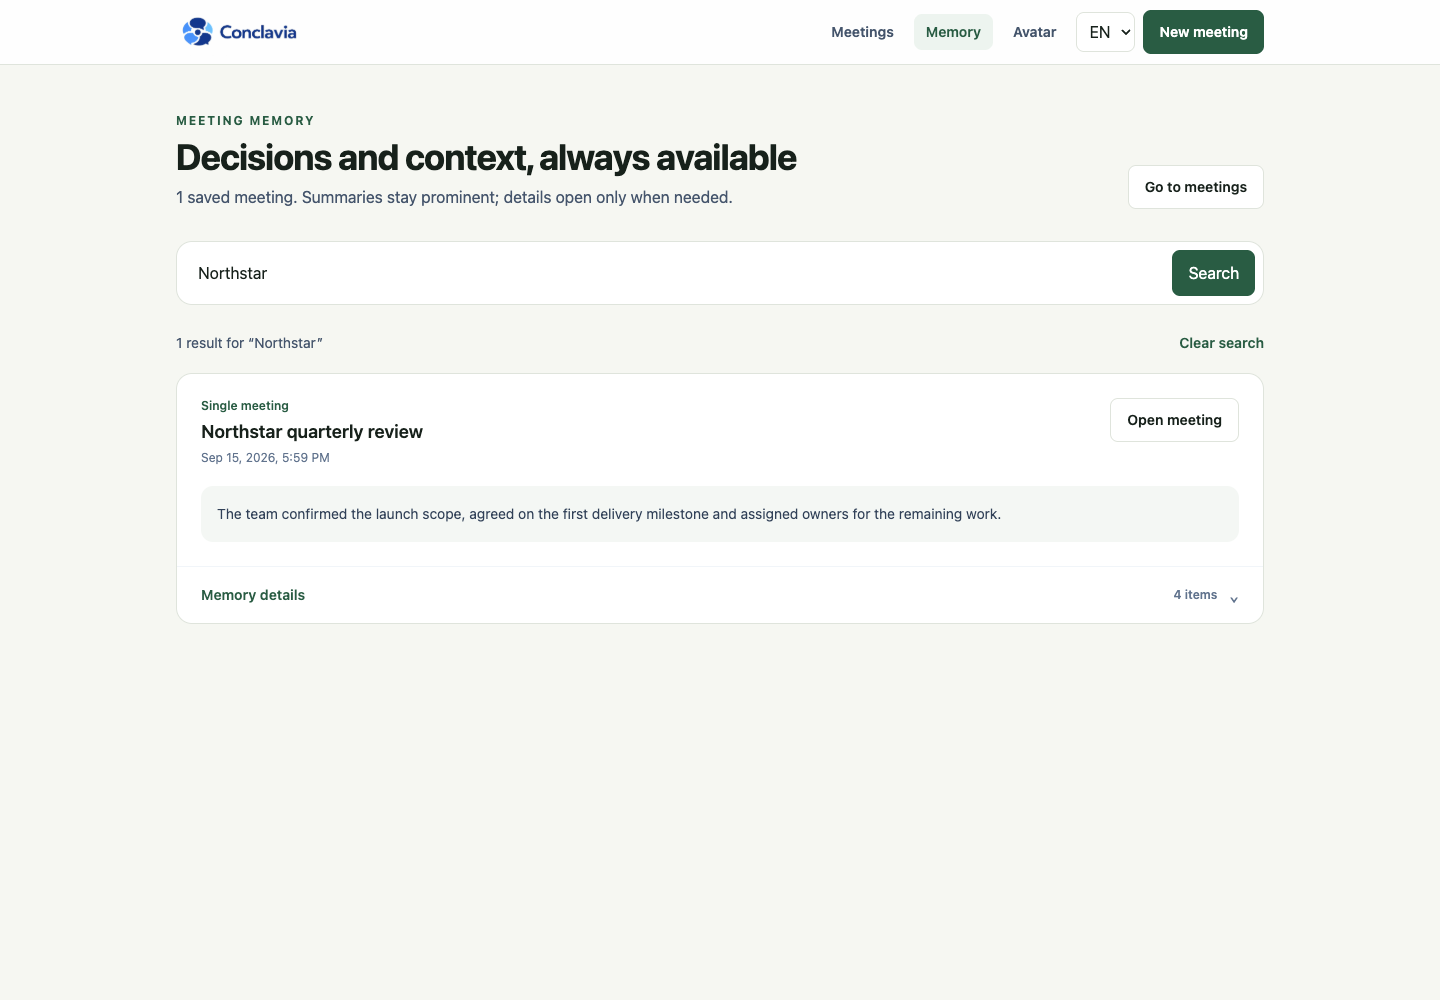
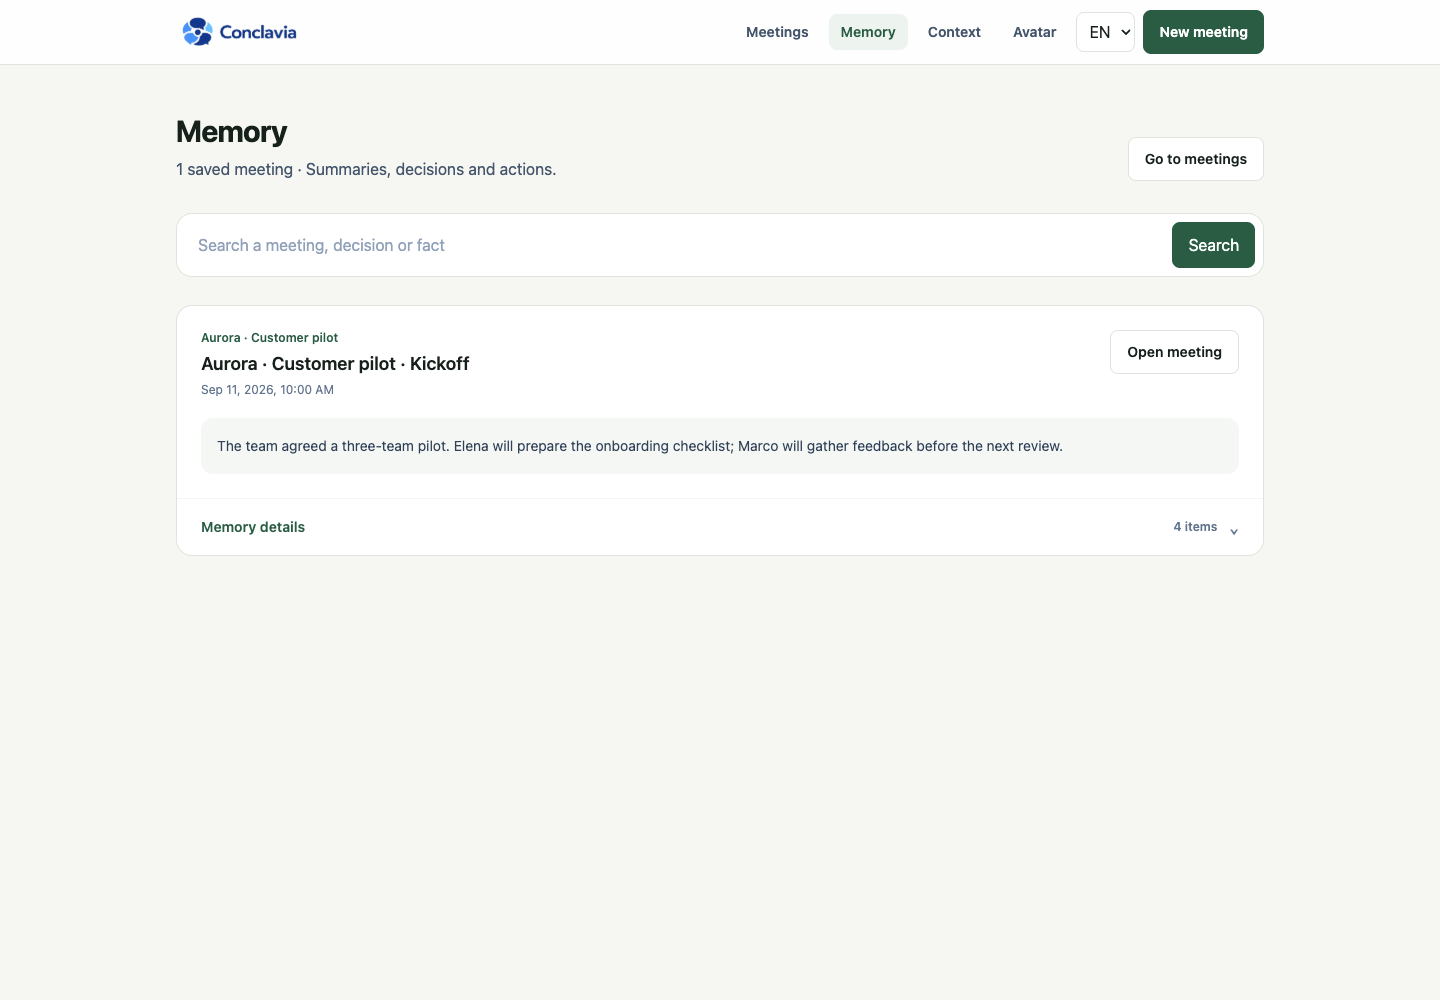
docs: refresh README figures with repeatable GUI capture

diff --git a/tests/docs/readme-screenshots.spec.ts b/tests/docs/readme-screenshots.spec.ts
@@ -1,0 +1,167 @@
+import { randomUUID } from "node:crypto";
+import { resolve } from "node:path";
+import { loadEnvConfig } from "@next/env";
+import { expect, test, type Locator } from "@playwright/test";
+import { connectToDatabase } from "../../src/lib/mongodb";
+import { meetingDocumentData } from "../../src/lib/meeting-factory";
+import { MeetingModel } from "../../src/models/Meeting";
+import { MeetingSeriesModel } from "../../src/models/MeetingSeries";
+import type { MeetingResponse, MeetingSummary } from "../../src/types/meeting";
+
+test("capture current README screens with isolated demonstration data", async ({ page, request }) => {
+  expect(process.env.MONGODB_DB_NAME).toMatch(/^conclavia_e2e_docs_/);
+  expect(process.env.MEETING_BOT_PROVIDER).toBe("preview");
+  expect(process.env.MEETING_AI_ENABLED).toBe("false");
+  expect(process.env.INWORLD_API_KEY).toBe("");
+  loadEnvConfig(process.cwd());
+  await connectToDatabase();
+  const owned: string[] = [];
+  const seriesIds: string[] = [];
+  const errors: string[] = [];
+  page.on("pageerror", error => errors.push(error.message));
+  // Never follow an external meeting link or request paid speech in this capture.
+  await page.route("**/*", route => {
+    const url = new URL(route.request().url());
+    return url.hostname !== "127.0.0.1" || url.pathname.endsWith("/speech") ? route.abort() : route.continue();
+  });
+  await page.context().addCookies([{ name: "conclavia_locale", value: "en", url: "http://127.0.0.1:3101" }]);
+  await page.setViewportSize({ width: 1440, height: 1000 });
+  const at = (days: number) => {
+    const date = new Date(); date.setDate(date.getDate() + days); date.setHours(10, 0, 0, 0); return date.toISOString();
+  };
+  const input = (title: string, days = 1) => ({
+    title, objective: "Agree the Aurora pilot scope, owners and next steps.",
+    meetingUrl: `https://teams.microsoft.com/l/meetup-join/readme-demo-${randomUUID()}`,
+    scheduledStart: at(days), durationMinutes: 45, timezone: "Europe/Rome", language: "en" as const,
+    autoJoin: false, correctionPolicy: "important_only" as const,
+    agenda: [{ title: "Pilot scope and success criteria", mandatory: true }, { title: "Owners and next steps", mandatory: true }],
+  });
+  const { profile } = await (await request.get("/api/avatar")).json();
+  const originalContext = await (await request.get("/api/context")).json();
+  const profileInput = {
+    displayName: profile.displayName, role: profile.role, appearance: profile.appearance,
+    responseStyle: profile.personality.responseStyle, attitude: profile.personality.attitude,
+    voiceStyle: profile.voice.style, speakingRate: profile.voice.speakingRate,
+    inworldVoiceIdIt: profile.voice.inworldVoiceIdIt, inworldVoiceIdEn: profile.voice.inworldVoiceIdEn,
+  };
+  async function capture(name: string, target?: Locator) {
+    await page.evaluate(() => document.fonts.ready);
+    if (!target) {
+      // Form fills can scroll the page; reset before capturing a sticky header.
+      await page.evaluate(() => {
+        if (document.activeElement instanceof HTMLElement) document.activeElement.blur();
+        window.scrollTo({ top: 0, behavior: "instant" });
+      });
+      await expect.poll(() => page.evaluate(() => window.scrollY)).toBe(0);
+    }
+    expect(await page.evaluate(() => document.documentElement.scrollWidth <= innerWidth)).toBe(true);
+    const options = { path: resolve("docs/images", name), animations: "disabled" as const, caret: "hide" as const,
+      style: "nextjs-portal { display: none !important; }", scale: "css" as const };
+    if (target) await target.screenshot(options);
+    else await page.screenshot({ ...options, fullPage: true });
+  }
+  try {
+    expect((await request.patch("/api/avatar", { data: { ...profileInput, displayName: "Riccardo", role: "Digital colleague",
+      appearance: "business_clay", inworldVoiceIdIt: "Gianni", inworldVoiceIdEn: "Dennis", speakingRate: 1 } })).ok()).toBe(true);
+    const general = "Aurora is a fictional customer onboarding product.\nMVP means the first version customers can use.\nKeep answers brief; distinguish proposals from confirmed decisions.\nDo not infer an approved budget from planning notes.";
+    expect((await request.patch("/api/context", { data: { context: general, version: originalContext.version } })).ok()).toBe(true);
+    const seriesResponse = await request.post("/api/meeting-series", { data: {
+      ...input("Aurora · Customer pilot"), context: "Pilot for the Italian market. Success means onboarding three demo teams.\nTrack scope, owners and feedback across appointments.",
+      appointments: [
+        { ...input("Kickoff", -2), label: "Kickoff" },
+        { ...input("Pilot review", 1), label: "Pilot review" },
+        { ...input("Next steps", 4), label: "Next steps" },
+      ],
+    } });
+    expect(seriesResponse.status()).toBe(201);
+    const seriesData = await seriesResponse.json();
+    seriesIds.push(seriesData.series.id);
+    const meetings = seriesData.meetings as MeetingResponse[];
+    owned.push(...meetings.map(meeting => meeting.id));
+    const summary: MeetingSummary = {
+      overview: "The team agreed a three-team pilot. Elena will prepare the onboarding checklist; Marco will gather feedback before the next review.",
+      rememberedFacts: ["The pilot covers three demonstration teams."],
+      decisions: ["Start with onboarding and feedback collection; defer advanced reporting."],
+      actionItems: [{ owner: "Elena", description: "Prepare the onboarding checklist", dueAt: new Date(at(1)), completed: false }],
+      openQuestions: ["Which feedback questions should be prioritised?"], participantNotes: [],
+    };
+    await MeetingModel.updateOne({ _id: meetings[0].id }, { $set: {
+      status: "completed", summary, "bot.status": "left", "bot.leftAt": new Date(at(-2)),
+    } }, { runValidators: true });
+    const next = meetings[1];
+    await MeetingModel.updateOne({ _id: next.id }, { $set: {
+      context: "Focus on onboarding feedback in this appointment.\nConfirm the checklist owner before discussing reporting.",
+    } });
+    const standalone = await MeetingModel.create(meetingDocumentData(input("Design review · First-time experience", 2), { assistantName: "Riccardo" }));
+    owned.push(String(standalone._id));
+
+    await page.goto("/meetings");
+    await expect(page.getByRole("heading", { name: "Meetings", exact: true })).toBeVisible();
+    await capture("meetings.png");
+    await page.goto("/meetings/new");
+    await page.getByLabel("Microsoft Teams link").fill("https://teams.microsoft.com/l/meetup-join/readme-demo");
+    await page.getByLabel("Meeting title", { exact: true }).fill("Aurora · Pilot review");
+    await page.getByLabel("Meeting objective").fill("Review onboarding feedback and agree the next iteration.");
+    await page.getByLabel("Language", { exact: true }).selectOption("en");
+    await page.getByLabel("Date and time").fill(`${at(1).slice(0, 10)}T10:00`);
+    await capture("new-meeting.png");
+
+    await page.goto(`/meetings/series/${seriesData.series.id}`);
+    await expect(page.getByRole("heading", { name: "Aurora · Customer pilot", exact: true })).toBeVisible();
+    await capture("meeting-series.png");
+    await page.goto("/memory");
+    await expect(page.getByText(summary.overview, { exact: true })).toBeVisible();
+    await capture("memory.png");
+
+    await page.goto("/avatar");
+    await expect(page.getByLabel("Name and call phrase")).toHaveValue("Riccardo");
+    await expect(page.locator("svg[data-appearance]")).toHaveAttribute("data-appearance", "business_clay");
+    await capture("avatar-settings-en.png");
+    await page.goto("/avatar/test");
+    await expect(page.getByTestId("voice-provider")).toContainText("Inworld");
+    await expect(page.getByLabel("Voice to preview")).toHaveValue("Dennis");
+    await capture("avatar-studio-en.png");
+    expect((await request.patch("/api/avatar", { data: { ...profileInput, displayName: "Nora", role: "Digital colleague",
+      appearance: "business_clay_female", inworldVoiceIdIt: "Orietta", inworldVoiceIdEn: "Eleanor", speakingRate: 1 } })).ok()).toBe(true);
+    await page.reload();
+    await page.getByLabel("Language", { exact: true }).selectOption("it");
+    await expect(page.getByLabel("Voice to preview")).toHaveValue("Orietta");
+    await page.getByRole("button", { name: "Raise / lower hand" }).click();
+    await expect(page.locator("svg[data-appearance]")).toHaveAttribute("data-gesture", "hand_raise");
+    await capture("avatar-studio-female-en.png");
+    // Keep the named-turn example consistent with the meetings created as Riccardo.
+    expect((await request.patch("/api/avatar", { data: { ...profileInput, displayName: "Riccardo", role: "Digital colleague",
+      appearance: "business_clay", inworldVoiceIdIt: "Gianni", inworldVoiceIdEn: "Dennis", speakingRate: 1 } })).ok()).toBe(true);
+
+    await page.goto("/context");
+    await expect(page.getByLabel("General context", { exact: true })).toHaveValue(general);
+    await capture("assistant-context-en.png");
+    await page.goto(`/meetings/${next.id}`);
+    const meetingContext = page.getByTestId("meeting-context");
+    await meetingContext.locator("summary").first().click();
+    await meetingContext.getByText("Already included context", { exact: true }).click();
+    await expect(meetingContext.getByLabel("Notes for this meeting")).toHaveValue(/Focus on onboarding/);
+    await capture("meeting-context-en.png", meetingContext);
+
+    // This screenshot documents an injected caption example, not a recorded Teams conversation.
+    await MeetingModel.updateOne({ _id: next.id }, { $set: {
+      transcript: [
+        { sequence: 1, speakerName: "Elena · Demo", text: "Secondo me tre per tre fa 12.", source: "participant", createdAt: new Date(Date.now() - 8000) },
+        { sequence: 2, speakerName: "Elena · Demo", text: "Ehi Riccardo, dimmi.", source: "participant", createdAt: new Date(Date.now() - 3000) },
+      ],
+      commandHistory: [{ id: randomUUID(), kind: "correct", prompt: "Secondo me tre per tre fa 12.", response: "Sì, 3 per 3 fa 9, non 12.", createdAt: new Date(Date.now() - 2000) }],
+    } });
+    await page.reload();
+    await page.getByRole("switch", { name: "Debug mode" }).click();
+    await expect(page.getByRole("log").getByText("Sì, 3 per 3 fa 9, non 12.", { exact: true })).toBeVisible();
+    await capture("meeting-debug-en.png", page.locator("section").filter({ has: page.getByRole("switch", { name: "Debug mode" }) }));
+    expect(errors).toEqual([]);
+  } finally {
+    await page.goto("about:blank");
+    for (const id of owned) await MeetingModel.deleteOne({ _id: id });
+    for (const id of seriesIds) await MeetingSeriesModel.deleteOne({ _id: id });
+    expect((await request.patch("/api/avatar", { data: profileInput })).ok()).toBe(true);
+    const context = await (await request.get("/api/context")).json();
+    expect((await request.patch("/api/context", { data: { context: originalContext.context, version: context.version } })).ok()).toBe(true);
+  }
+});

diff --git a/playwright.docs.config.ts b/playwright.docs.config.ts
@@ -1,0 +1,14 @@
+import { randomUUID } from "node:crypto";
+import { defineConfig } from "@playwright/test";
+import regression from "./playwright.config";
+
+// Preserve this exact isolated database in the server and worker subprocesses.
+if (!process.env.MONGODB_DB_NAME?.startsWith("conclavia_e2e_docs_")) {
+  process.env.MONGODB_DB_NAME = `conclavia_e2e_docs_${randomUUID().replaceAll("-", "")}`;
+}
+
+export default defineConfig(regression, {
+  testDir: "./tests/docs",
+  timeout: 120_000,
+  use: { ...regression.use, viewport: { width: 1440, height: 1000 }, reducedMotion: "reduce", timezoneId: "Europe/Rome" },
+});

diff --git a/README.md b/README.md
@@ -49,6 +49,8 @@ Start with [voice setup](#streaming-voice-setup), the [Cloudflare local test gui
 
 ## Product tour
 
+The desktop figures below were refreshed on **13 September 2026** from the current application, using fictional Aurora meetings in an isolated database. They show the real GUI, not design mockups or recordings of a Teams call. Paid integrations are disabled during capture; the Inworld configuration warning in the voice studio is intentional. See [refreshing the screenshots](#refreshing-the-readme-screenshots).
+
 ### Meetings at a glance
 
 The dashboard separates **Overview**, **Upcoming**, **History**, and **Series**. The overview shows a short list of current and upcoming meetings plus recent summaries. A collapsed action bar contains admissions and operational issues; old missed appointments and optional summary reviews do not accumulate there.
@@ -64,6 +66,8 @@ See the [dashboard verification report](docs/dashboard-verification-2026-09-09.m
 ### Avatar and voice test
 
 The avatar can be tested independently from a meeting, including Italian and English voice, speaking rate, facial mood, audio-driven lip sync, and hand raise. Save voice and rate only after comparing them; advanced model comparisons affect the preview only. This local preview does not require Cloudflare or an Attendee participant.
+
+Start in [Identity & behaviour](docs/images/avatar-settings-en.png) to choose the name and appearance, then move to the studio below. The provider is explicitly labelled **Inworld**, and optional speed/model controls stay under **Advanced settings**.
 
 ![Conclavia voice and movement studio](docs/images/avatar-studio-en.png)
 
@@ -127,17 +131,27 @@ Storage/context limits are intentional but relevant to long meetings: the meetin
 
 For testing, enable **Debug mode** on the meeting detail page, below the assistant commands. It is off by default and shows received transcript contributions and assistant response text with names and timestamps, updating roughly every second while the tab is visible. The latest acknowledged response also shows whether the avatar browser started, completed, or failed playback. A text response alone is not proof of audio, and browser playback does not establish what another Teams participant heard. This is a read-only view: it does not enable recording or change memory. Turning it off stops its requests. Only the latest 100 events are displayed; unchanged responses use conditional requests, and updates do not reload the page or pull focus away while reading older messages. Debug is not displayed in the avatar’s Teams video and does not ingest Teams text chat.
 
+The figure illustrates the named contextual follow-up with **seeded demonstration captions and a seeded response**. It documents the display, not microphone recognition, response generation or successful audio playback; those require the separate verification runs.
+
+![Debug mode showing a participant statement, a named invitation and Riccardo's contextual correction](docs/images/meeting-debug-en.png)
+
 The assistant personality has two deliberately simple controls: response length and attitude. Those choices are included in the meeting prompt.
 
 ## Assistant context
 
 Open **Context** in the navigation to enter company background, terminology and working preferences. In a meeting, open **Context for the assistant** for appointment-specific notes and a read-only preview of inherited context. The series detail has its own **Series context** section. During creation, notes are optional and collapsed; the objective remains the result to achieve, not a second background field.
 
+![General assistant context with explicit save and an explanation of the three scopes](docs/images/assistant-context-en.png)
+
 | Scope | Where to edit | Applies to |
 | --- | --- | --- |
 | General | `/context` | Every meeting in this installation |
 | Series | Series detail → Series context | All appointments linked by `seriesId`, including existing and future ones |
 | Meeting | Meeting detail → Context for the assistant | Only that appointment |
+
+The meeting panel shows inherited general and series notes alongside the editable notes for this appointment, so shared background does not have to be copied into each meeting.
+
+![Meeting-specific context with the inherited general and series context expanded](docs/images/meeting-context-en.png)
 
 The effective background is **general + series + meeting**. Specific details take precedence over broader background, while non-conflicting information remains available. This is prompt guidance, not a guarantee of model reasoning. The common prompt rules keep owner-supplied background separate from transcript evidence: a planned budget in context must not be summarized as a budget approved in the meeting. Stored outcomes and original transcripts are not rewritten. Transcripts remain evidence, never replacement system instructions. This follows the [OpenAI instruction/input separation](https://developers.openai.com/api/docs/guides/prompt-engineering#message-roles-and-instruction-following).
 
@@ -225,6 +239,10 @@ The monitor persists at most three attempts per entry, does not reapply after HT
 
 Choose **Male · Business** or **Female · Business** in either **Identity & behaviour** or **Test avatar**. Both tabs share the same unsaved configuration: you can select the female avatar, change its name, switch to testing and hear it before saving. The female variant uses the same animated vector style, blue blazer, expressions, hand raise and audio-driven mouth shapes, with chestnut hair and a green blouse. Its chin has a softer contour and lighter shading without the dark chin crease.
 
+The female studio example below uses the independently configured name **Nora**, the Italian voice **Orietta**, and the preview's raised-hand control. The hand is an avatar gesture, not the native Teams toolbar hand.
+
+![Female business avatar with its hand raised and the Italian Inworld voice Orietta selected](docs/images/avatar-studio-female-en.png)
+
 Voices follow the selected appearance in both tabs: **male avatar → male voices only; female avatar → female voices only**, in Italian and English. Switching appearance immediately selects a compatible pair in the preview (Gianni/Dennis for male, Orietta/Eleanor for female), retaining compatible selections and remembering each appearance's last choices during the editing session. The name stays independent: selecting the female avatar does not rename Riccardo. The voice studio uses the current draft; the meeting renderer uses only the saved configuration. An already open meeting renderer picks up saved appearance changes through its existing state polling, without creating another participant.
 
 If an existing profile contains mismatched voices, preview uses compatible defaults and explicitly asks you to save the correction. Merely opening the page never rewrites the saved meeting profile. Custom server voice IDs without curated gender metadata are not offered in this filtered selector; their saved values remain visible under Advanced until explicitly replaced. Discarding other edits cannot restore a mismatched voice into the preview.
@@ -235,7 +253,7 @@ The [female avatar verification report](docs/female-avatar-verification-2026-09-
 
 The avatar workspace has two sections: **Identity & behaviour** for name, appearance and personality, and **Test avatar · voice & movement** for listening and animation checks. Optional speaking-rate adjustments belong in the test studio's collapsed **Advanced settings**, so the main flow stays focused on choosing and hearing a voice.
 
-[Voice and movement studio screenshot](docs/images/avatar-studio-en.png) · [Mobile playback preview](docs/images/avatar-studio-mobile-speaking-en.png)
+[Voice and movement studio](docs/images/avatar-studio-en.png) · [Identity & behaviour](docs/images/avatar-settings-en.png). Earlier mobile playback evidence remains in the [female avatar verification report](docs/female-avatar-verification-2026-09-11.md).
 
 Open **Test avatar · voice & movement**. Only the voices matching the preview's appearance and language are offered:
 
@@ -545,6 +563,20 @@ This runs ESLint, TypeScript, isolated tunnel-launcher tests, a production build
 Tests run on an isolated local port and a per-run `conclavia_e2e_…` database with meeting AI and the external participant disabled. `MONGODB_DB_NAME` selects this test database without modifying `.env.local`; normal runtime continues using the database in `MONGODB_URI`. Tests create uniquely named records and remove them after their scenarios, without creating paid external usage or modifying user meeting history.
 
 The regression runner selects streaming with an empty provider credential. Deterministic PCM fixtures test playback, queue ordering, permission gating, errors, stop, and lip sync without paid synthesis. On 11 September 2026, the streaming-only regression run passed **187 tests in 2.0 minutes**, plus ESLint and TypeScript. The running application's old preview URL also opened only the streaming studio, the retired model endpoint returned 404, and no browser errors were observed. No Teams participant or paid synthesis was started for this run. Real provider probes are separate from these regressions; older audit reports describe the implementation at their recorded date.
+
+### Refreshing the README screenshots
+
+After installing dependencies and configuring a reachable MongoDB connection for local development, run from `conclavia-meeting-avatar`:
+
+```bash
+npm run docs:screenshots
+```
+
+This opt-in Playwright workflow regenerates **ten desktop PNGs** under `docs/images/`: meetings, creation, series, memory, identity, male/female voice studios, general context, inherited meeting context and debug. It uses Chrome, an isolated server on **port 3101**, and a dedicated `conclavia_e2e_docs_…` database. It preserves `.env.local`, the normal application's database and the server on port 3000. Do not run it alongside another regression run using port 3101 or `.next-e2e`.
+
+The capture creates fictional demo records, removes its own meeting/series records afterward and restores the isolated profile/context. External meeting participants and AI generation are disabled, the Inworld credential is empty, and browser requests to external hosts or speech endpoints are blocked. No Cloudflare tunnel or paid provider call is needed. The voice configuration warning is retained, and the debug conversation is seeded explicitly; neither screenshot is audio/video acceptance evidence.
+
+The capture checks the selected appearance/voice, inherited context, example response, horizontal overflow and browser errors. Review the generated images visually before committing them. It is separate from `npm run verify`, so regular regression runs do not overwrite documentation images.
 
 ### Real streaming voice smoke test
 
